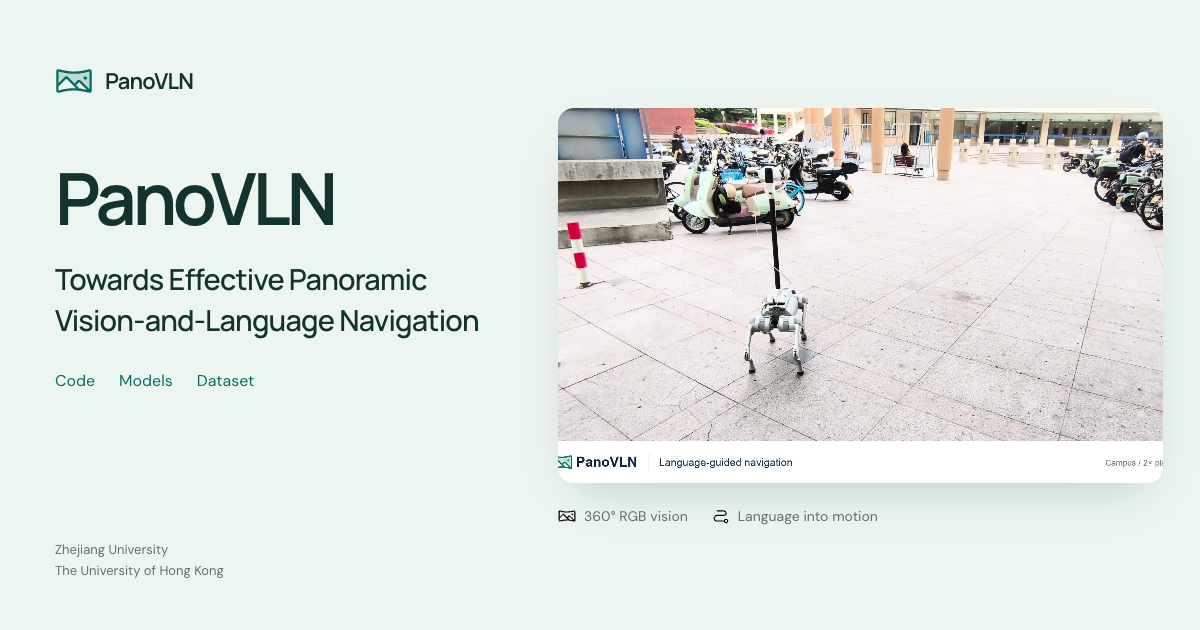
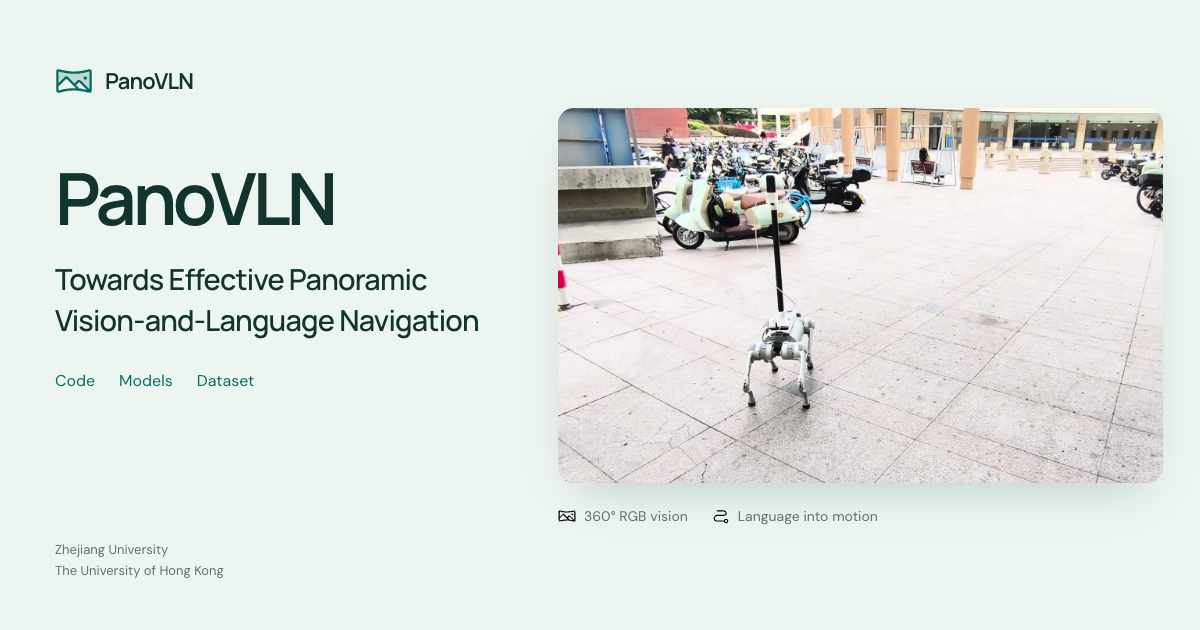
Frame the social preview around the robot footage

Changed region(s): [[0.4625, 0.4524, 0.9867, 0.7841], [0.4625, 0.1508, 0.9867, 0.5127], [0.4625, 0.573, 0.555, 0.6635]]

diff --git a/tools/social-card.html b/tools/social-card.html
@@ -1,3 +1,3 @@
 <!doctype html><html lang="en"><head><meta charset="utf-8"><link rel="stylesheet" href="../docs/styles.css"><style>
-html,body{width:1200px;height:630px;overflow:hidden}.social-card{width:1200px;height:630px;display:grid;grid-template-columns:520px 680px;background:#edf5f1}.social-copy{padding:62px 0 48px 55px;position:relative;z-index:1;display:flex;flex-direction:column}.social-brand{display:flex;align-items:center;gap:12px;font:650 22px Manrope;letter-spacing:-.8px}.social-brand img{width:38px;height:38px}.social-copy h1{font:650 72px/1.2 Manrope;letter-spacing:-4px;margin:55px 0 18px}.social-title{font:550 29px/1.4 Manrope;letter-spacing:-.8px;max-width:455px}.social-resources{display:flex;gap:24px;margin-top:27px;font-size:16px;color:#086b63}.social-universities{font-size:13px;color:#60716e;margin-top:auto}.social-film{padding:60px 36px 55px 38px;display:flex;justify-content:center;flex-direction:column}.social-film>img{width:605px;height:375px;object-fit:cover;object-position:34% center;border-radius:16px;box-shadow:0 20px 50px -20px #45645455}.social-film p{font-size:14px;color:#60716e;margin-top:22px;display:flex;gap:24px}.social-film span{display:flex;gap:8px;align-items:center}.social-film .icon{width:18px;height:18px}
-</style></head><body><div class="social-card"><div class="social-copy"><div class="social-brand"><img src="../docs/assets/brand/logo.svg" alt="">PanoVLN</div><h1>PanoVLN</h1><p class="social-title">Towards Effective Panoramic Vision-and-Language Navigation</p><div class="social-resources"><span>Code</span><span>Models</span><span>Dataset</span></div><p class="social-universities">Zhejiang University<br>The University of Hong Kong</p></div><div class="social-film"><img src="../docs/assets/media/hero-poster.jpg" alt="PanoVLN robot navigating on campus"><p><span><img class="icon" src="../docs/assets/icons/phosphor/regular/panorama.svg" alt="">360° RGB vision</span><span><img class="icon" src="../docs/assets/icons/phosphor/regular/path.svg" alt="">Language into motion</span></p></div></div></body></html>
+html,body{width:1200px;height:630px;overflow:hidden}.social-card{width:1200px;height:630px;display:grid;grid-template-columns:520px 680px;background:#edf5f1}.social-copy{padding:62px 0 48px 55px;position:relative;z-index:1;display:flex;flex-direction:column}.social-brand{display:flex;align-items:center;gap:12px;font:650 22px Manrope;letter-spacing:-.8px}.social-brand img{width:38px;height:38px}.social-copy h1{font:650 72px/1.2 Manrope;letter-spacing:-4px;margin:55px 0 18px}.social-title{font:550 29px/1.4 Manrope;letter-spacing:-.8px;max-width:455px}.social-resources{display:flex;gap:24px;margin-top:27px;font-size:16px;color:#086b63}.social-universities{font-size:13px;color:#60716e;margin-top:auto}.social-film{padding:60px 36px 55px 38px;display:flex;justify-content:center;flex-direction:column}.social-still{width:605px;height:375px;overflow:hidden;border-radius:16px;box-shadow:0 20px 50px -20px #45645455}.social-still>img{width:750px;height:auto;max-width:none;transform:translateX(-48px)}.social-film p{font-size:14px;color:#60716e;margin-top:22px;display:flex;gap:24px}.social-film span{display:flex;gap:8px;align-items:center}.social-film .icon{width:18px;height:18px}
+</style></head><body><div class="social-card"><div class="social-copy"><div class="social-brand"><img src="../docs/assets/brand/logo.svg" alt="">PanoVLN</div><h1>PanoVLN</h1><p class="social-title">Towards Effective Panoramic Vision-and-Language Navigation</p><div class="social-resources"><span>Code</span><span>Models</span><span>Dataset</span></div><p class="social-universities">Zhejiang University<br>The University of Hong Kong</p></div><div class="social-film"><div class="social-still"><img src="../docs/assets/media/hero-poster.jpg" alt="PanoVLN robot navigating on campus"></div><p><span><img class="icon" src="../docs/assets/icons/phosphor/regular/panorama.svg" alt="">360° RGB vision</span><span><img class="icon" src="../docs/assets/icons/phosphor/regular/path.svg" alt="">Language into motion</span></p></div></div></body></html>
